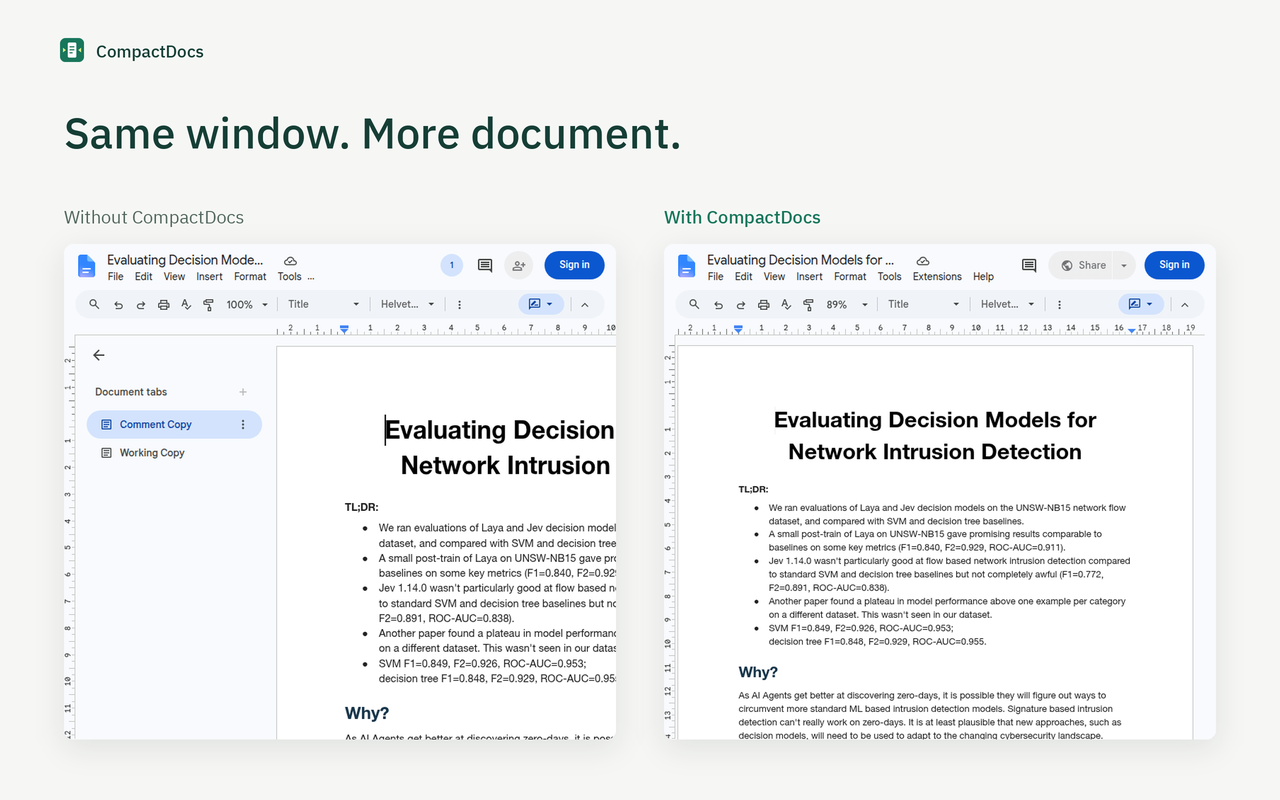
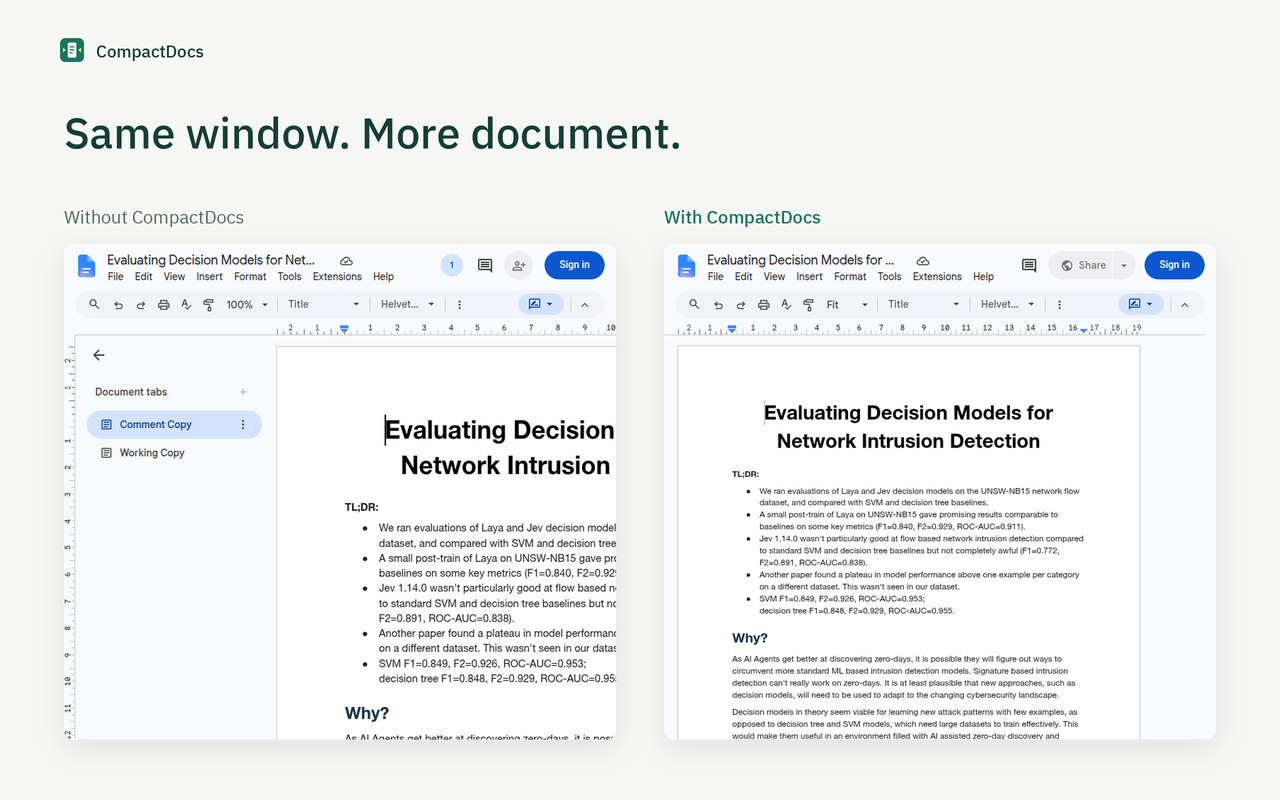
Re-capture store plates from the packaged 1.4.1
The fit plate now shows Google Docs' native Fit control instead of the
old calculated 70% zoom, and the caption matches the shipped behaviour.
Provenance notes and listing copy updated accordingly; the short
description matches the manifest description used by the dashboard.

diff --git a/store/SCREENSHOTS.md b/store/SCREENSHOTS.md
@@ -1,16 +1,16 @@
 # Screenshot provenance
 
-The current store plates use genuine captures of the installed 1.4.0 extension in a dedicated Chrome for Testing profile. The previous source-injected demonstration images were replaced. The user supplied and approved the document for public marketing screenshots. No document text or page settings were edited. Captures contain page content only, without browser chrome or a signed-in account avatar.
+The current store plates use genuine captures of the installed 1.4.1 extension in a dedicated Chrome for Testing profile. The previous source-injected demonstration images were replaced. The user supplied and approved the document for public marketing screenshots. No document text or page settings were edited. Captures contain page content only, without browser chrome or a signed-in account avatar.
 
 - `screenshots/01-side-by-side.png`: a narrow Docs view positioned on the left, with a short explanation of side-by-side work.
 - `screenshots/02-reclaim-space.png`: default Docs and CompactDocs at the same 780 px viewport width.
-- `screenshots/03-hover-tabs.png`: the genuine rounded 1.4.0 native tabs overlay.
-- `screenshots/04-fit-your-window.png`: a 620 px viewport, automatically fitted at 70% view zoom.
+- `screenshots/03-hover-tabs.png`: the genuine rounded native tabs overlay from the installed 1.4.1 package.
+- `screenshots/04-fit-your-window.png`: a 620 px viewport using Google Docs' native Fit zoom, selected automatically.
 - `screenshots/05-your-settings.png`: actual installed extension popup, captured at 2× device pixel ratio and cropped to its three settings.
 - `alternatives/06-hover-access.png`: closed/open comparison with an annotation identifying the invisible full-height edge target. The green edge line is an annotation, not an extension control.
 
 Each plate is a 1280 × 800 RGB PNG. The first five are the default upload set. The alternative can replace 03. The Chrome Web Store accepts up to five screenshots.
 
-Live checks confirmed 89% auto-fit at 780 px and 70% at 620 px, identical page bounds and zoom before/after hover, pointer-exit dismissal, keyboard focus and Escape, and all three popup switches. Fresh anonymous captures do not verify signed-in Workspace apps. The right-panel feature is represented in accurate copy and the actual setting, not a fabricated signed-in screenshot. See `../TESTING.md` for historical checks and remaining manual cases.
+Live checks for this re-capture confirmed native Fit at both 780 px and 620 px, identical page bounds and zoom before/after hover, pointer-exit dismissal, keyboard focus and Escape, and all three popup switches from the installed popup, whose controls are enabled after settings load. Fresh anonymous captures do not verify signed-in Workspace apps. The right-panel feature is represented in accurate copy and the actual setting, not a fabricated signed-in screenshot. See `../TESTING.md` for historical checks and remaining manual cases.
 
 `demo.html` remains a synthetic local development fixture, not a Google Docs screenshot or evidence of installed-package verification. Marketing images do not replace final browser testing of the release ZIP.

diff --git a/store/LISTING.md b/store/LISTING.md
@@ -3,8 +3,8 @@
 ## Name
 CompactDocs
 
-## Short description
-Make Google Docs easier to use in a window tiled to the left of your screen.
+## Short description (82 characters, matches the manifest description)
+Make more room in Google Docs with compact side panels and optional page fitting.
 
 ## Detailed description
 Tile Google Docs to the left and keep another window alongside it. CompactDocs gives your document more room in that narrow window by reducing sidebar clutter and fitting the page to the available width.
